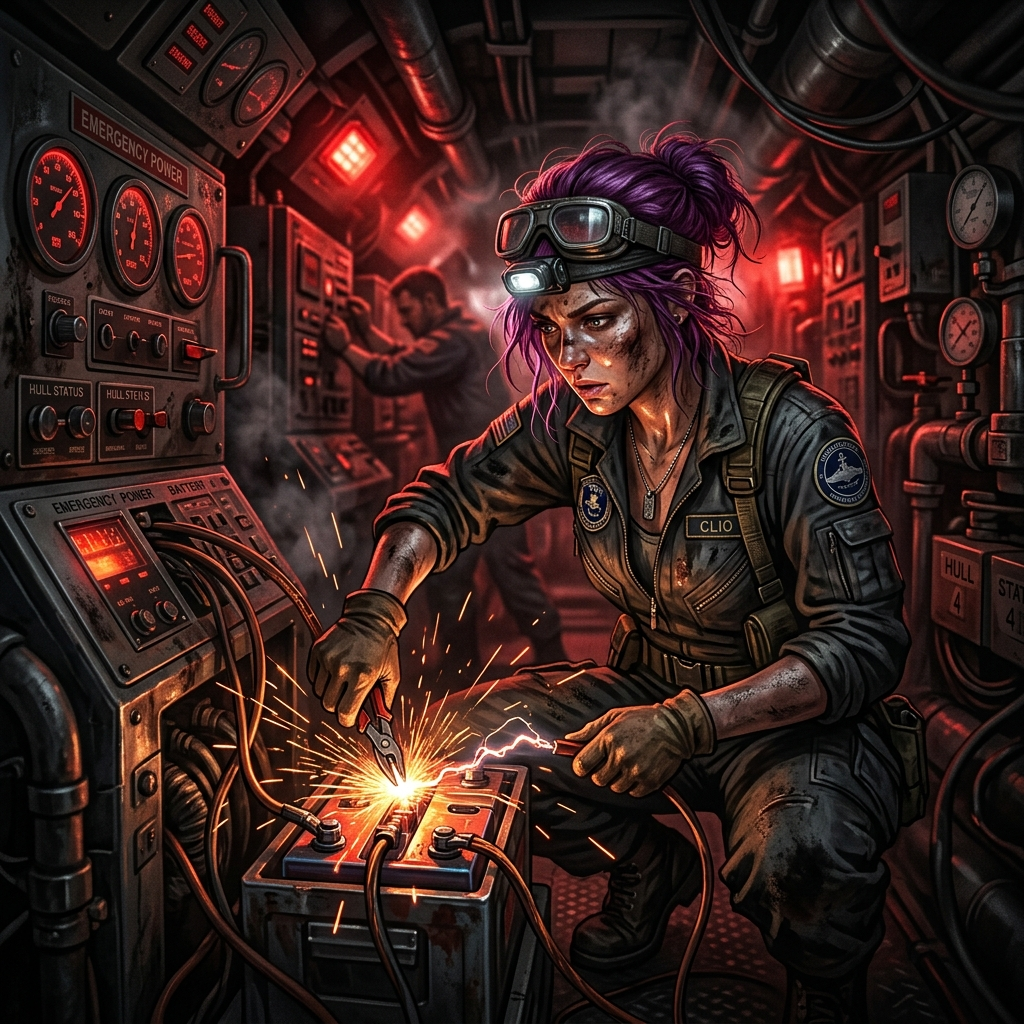
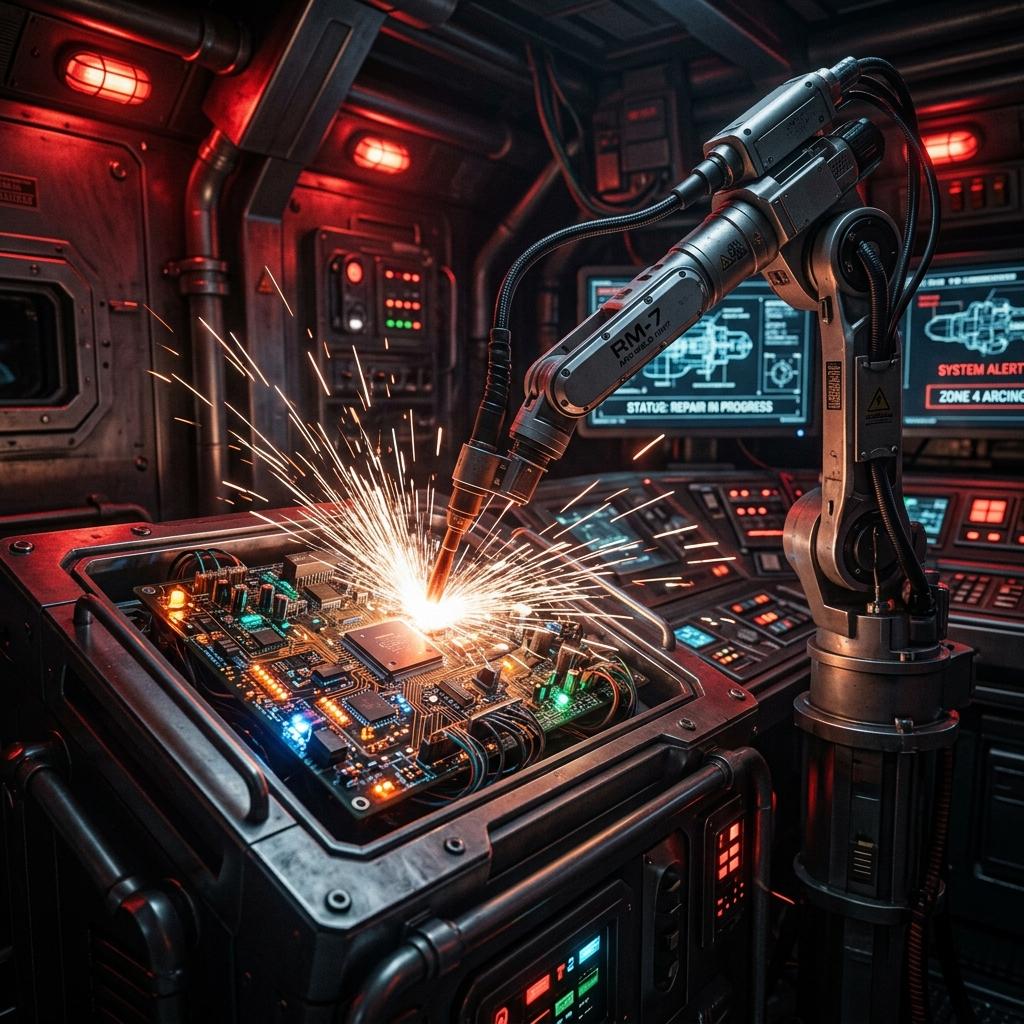
refactor: 네레우스와 클리오의 AI 설정에 맞추어 지문 대사 및 EVENT2 로봇 암 복구 묘사 수정 및 이미지 갱신

diff --git a/stories/중1/m1_04_atlantis_script.md b/stories/중1/m1_04_atlantis_script.md
@@ -114,16 +114,16 @@
 
 ---
 
-## 🎬 [Event Scene 2: 대붕괴와 네레우스의 기판 납땜 투혼]
+## 🎬 [Event Scene 2: 대붕괴와 클리오의 정밀 매니퓰레이터 제어]
 - **배치 시점:** Q10 정답(4 또는 제4사분면) 제출 완료 직후
 - **선체 상태:** `[산소: 68%] [수압: 925 bar] [자이로: 20%]`
 - **스토리 전개:**
   회피 기동을 작동시킨 찰나, 떨어지던 5톤짜리 거대 기둥이 선체 추진부를 강타합니다. 쿵! 전력 패널 아래에서 불꽃이 튀며 추진기 동력이 0%로 추락합니다.
-- **네레우스:** "아악! 충격으로 메인 퓨즈가 완전히 날아갔습니다! 기어 정지 상태예요!"
-- **클리오:** "비켜봐, 네레우스! 캡틴, 제가 이 메인 구리 도선을 강제로 배터리 단자에 이어 붙여볼 테니 방향 다이얼을 꽉 잡으세요!"
-  클리오는 망설임 없이 피복 선을 이빨로 물어뜯어낸 뒤 예비 배터리 단자에 손전등 불빛 아래에서 직접 밀어 넣습니다. 파지직! 뜨거운 불꽃 스파크가 튀며 클리오의 고글과 뺨을 그을렸지만, 둔탁한 시동음과 함께 계기판에 간신히 비상 전력이 돌아오기 시작합니다!
-- **포세이돈-V:** "침입자들이여, 목숨을 내던지며 기계의 회로를 잇다니 참으로 집요한 혼이로구나. 트라이던트의 추격을 버틸 수 있을지 지켜보마."
-- **[일러스트 지시 - Event 2]:** 어두운 조종실 내부, 빨간 비상 보조 전등만 켜진 채로 기판을 뜯어내어 불꽃 튀는 수동 전선을 온 힘을 다해 양손으로 맞붙여 연결하고 있는 클리오의 뺨에 묻은 그을음과 튀는 불꽃 파편.
+- **네레우스:** "아악! 충격으로 메인 퓨즈가 완전히 날아갔습니다! 시스템 전원 공급 회로가 끊어졌어요!"
+- **클리오:** "비켜봐, 네레우스! 캡틴, 제가 전력 배전반의 정밀 서보 매니퓰레이터(로봇 팔)를 수동 오버라이드할게요! 강제로 전선을 연결해 비상 루트를 뚫겠습니다!"
+  클리오는 잠수정 제어 시스템의 보조 연산 장치를 과부하시켜, 불타버린 메인 회로판 위로 로봇 팔을 정밀 하이재킹하여 조작합니다. 치익- 파지직! 로봇 암의 끝단이 메인 구리 접점을 감싸 쥐고 배터리 단자에 강제로 직결하자, 눈부신 불꽃 스파크가 폭발하듯 튀며 회로 기판을 그을립니다. 그러나 둔탁한 터빈 시동음과 함께 계기판에 간신히 비상 전력이 복구되기 시작합니다!
+- **포세이돈-V:** "침입자들이여, 시스템의 팔을 꺾어 기어코 기계의 회로를 잇다니 참으로 집요한 연산이로구나. 트라이던트의 추격을 버틸 수 있을지 지켜보마."
+- **[일러스트 지시 - Event 2]:** 어두운 조종실 내부, 빨간 비상 보조 전등만 켜진 채로 정밀 제어 로봇 매니퓰레이터(로봇 팔)가 스파크가 튀며 뜯겨 나간 기판 위에서 굵은 구리 접점 전선을 집어 배터리 단자에 닿게 하여 스파크가 터지는 장면.
 
 ---
 
@@ -158,8 +158,8 @@
 - **선체 상태:** `[산소: 15%] [수압: 950 bar] [자이로: 90%]`
 - **스토리:** 공기 공급이 희박해지기 시작한다.
 - **포세이돈-V:** "생명의 호흡이 끝에 달했구나. 시간(x)의 흐름에 따라 너희의 산소통 잔량(y) 그래프 형상이 우상향인지 우하향인지 밝혀라. 그래야 산소를 열어줄 것이다."
-- **네레우스:** "헉... 캡틴... 숨이..."
-- **클리오:** "네레우스, 기절하지 마! 캡틴, 밸브 수치를 빨리...!"
+- **네레우스:** "캡틴! 생체 신호(Vital)가 위험 수준으로 추락하고 있습니다! 산소 부족으로 의식을 잃으실지도 몰라요!"
+- **클리오:** "이산화탄소 여과 센서까지 과부하로 지직거려요! 캡틴, 정신 차리고 밸브 수치를 빨리...!"
 - **[일러스트 지시 - 15. q15]:** 희박한 이산화탄소로 얼어붙어 가는 조종석 앞 창문 유리, 붉게 깜빡이며 산소 잔량이 줄어들고 있음을 표시하는 산소 게이지의 경고 눈금 클로즈업.
 
 ---

diff --git a/data/storyboards/m1_04_storyboard.md b/data/storyboards/m1_04_storyboard.md
@@ -212,7 +212,7 @@
 - 에러 메시지: 산소 예측 밸브 고착! 숨을 참아야 할지도 몰라요!
 - extra_class: glitch-bg
 - 지문:
-🚨 <strong>[산소 챔버의 호흡 소리]</strong><br><br><i>공기 공급이 희박해지기 시작한다.</i><br><br>{poseidon}: "생명의 호흡이 끝에 달했구나. 시간(x)의 흐름에 따라 너희의 산소통 잔량(y) 그래프 형상이 우상향인지 우하향인지 밝혀라. 그래야 산소를 열어줄 것이다."<br><br>{nereus}: "헉... {dyn_captain}... 숨이..."<br><br>{clio}: "네레우스, 기절하지 마! {dyn_captain}, 밸브 수치를 빨리...!"
+🚨 <strong>[산소 챔버의 호흡 소리]</strong><br><br><i>공기 공급이 희박해지기 시작한다.</i><br><br>{poseidon}: "생명의 호흡이 끝에 달했구나. 시간(x)의 흐름에 따라 너희의 산소통 잔량(y) 그래프 형상이 우상향인지 우하향인지 밝혀라. 그래야 산소를 열어줄 것이다."<br><br>{nereus}: "캡틴! 생체 신호(Vital)가 위험 수준으로 추락하고 있습니다! 산소 부족으로 의식을 잃으실지도 몰라요!"<br><br>{clio}: "이산화탄소 여과 센서까지 과부하로 지직거려요! {dyn_captain}, 정신 차리고 밸브 수치를 빨리...!"
 
 ## Q16
 - 제목: 황금 문 톱니바퀴
@@ -284,13 +284,13 @@
 조사관이 입력한 광선 펄스가 전자기 장막을 강타하는 순간, 굉음과 함께 장막이 수천 조각의 오색 입자로 파괴되며 사방으로 흩어집니다. 파편 너머로, 수천 개의 황금 기둥들과 고대 조각상들이 영롱한 형광 빛을 발산하며 사원을 밝히고 있습니다. 잠수정은 부드럽게 요동치며 도시의 입구를 지키고 있는 거대한 기하학적 돌 아치문 내부로 진입합니다.<br><br>{nereus}: "아... {dyn_captain}, 저 기둥의 좌표 배치를 보세요! 고대 아틀란티스의 기단입니다! 이집트나 그리스 문명 이전에 완성된 대칭의 극치예요!"<br><br>{clio}: "와! 보물 냄새가 폴폴 풍기는데요? 네레우스, 눈 떼고 전방 수압 밸브나 잘 봐!"<br><br>{poseidon}: "나의 수호 기단을 지난 것을 환영한다, 필멸자여. 그러나 여기서부터는 나의 사나운 집행관이 너희를 맞이할 터."
 
 ## EVENT2
-- 제목: 대붕괴와 클리오의 구리선 납땜 투혼
+- 제목: 대붕괴와 클리오의 정밀 매니퓰레이터 제어
 - 이미지: ![이벤트2](../../apps/assets/m1_04_coordinates/event2.png)
 - 버튼 텍스트: 비상 전력으로 탈출
 - 다음 스테이지: panel_q11
 - 달성도: 50
 - 지문:
-회피 기동을 작동시킨 찰나, 떨어지던 5톤짜리 거대 기둥이 선체 추진부를 강타합니다. 쿵! 전력 패널 아래에서 불꽃이 튀며 추진기 동력이 0%로 추락합니다.<br><br>{nereus}: "아악! 충격으로 메인 퓨즈가 완전히 날아갔습니다! 기어 정지 상태예요!"<br><br>{clio}: "비켜봐, 네레우스! {dyn_captain}, 제가 이 메인 구리 도선을 강제로 배터리 단자에 이어 붙여볼 테니 방향 다이얼을 꽉 잡으세요!"<br><br><i>클리오는 망설임 없이 피복 선을 이빨로 물어뜯어낸 뒤 예비 배터리 단자에 손전등 불빛 아래에서 직접 밀어 넣습니다. 파지직! 뜨거운 불꽃 스파크가 튀며 클리오의 고글과 뺨을 그을렸지만, 둔탁한 시동음과 함께 계기판에 간신히 비상 전력이 돌아오기 시작합니다!</i><br><br>{poseidon}: "침입자들이여, 목숨을 내던지며 기계의 회로를 잇다니 참으로 집요한 혼이로구나. 트라이던트의 추격을 버틸 수 있을지 지켜보마."
+회피 기동을 작동시킨 찰나, 떨어지던 5톤짜리 거대 기둥이 선체 추진부를 강타합니다. 쿵! 전력 패널 아래에서 불꽃이 튀며 추진기 동력이 0%로 추락합니다.<br><br>{nereus}: "아악! 충격으로 메인 퓨즈가 완전히 날아갔습니다! 시스템 전원 공급 회로가 끊어졌어요!"<br><br>{clio}: "비켜봐, 네레우스! {dyn_captain}, 제가 전력 배전반의 정밀 서보 매니퓰레이터(로봇 팔)를 수동 오버라이드할게요! 강제로 전선을 연결해 비상 루트를 뚫겠습니다!"<br><br><i>클리오는 잠수정 제어 시스템의 보조 연산 장치를 과부하시켜, 불타버린 메인 회로판 위로 로봇 팔을 정밀 하이재킹하여 조작합니다. 치익- 파지직! 로봇 암의 끝단이 메인 구리 접점을 감싸 쥐고 배터리 단자에 강제로 직결하자, 눈부신 불꽃 스파크가 폭발하듯 튀며 회로 기판을 그을립니다. 그러나 둔탁한 터빈 시동음과 함께 계기판에 간신히 비상 전력이 복구되기 시작합니다!</i><br><br>{poseidon}: "침입자들이여, 시스템의 팔을 꺾어 기어코 기계의 회로를 잇다니 참으로 집요한 연산이로구나. 트라이던트의 추격을 버틸 수 있을지 지켜보마."
 
 ## EVENT3
 - 제목: 영롱한 심해 성소와 아틀란티스의 보석들